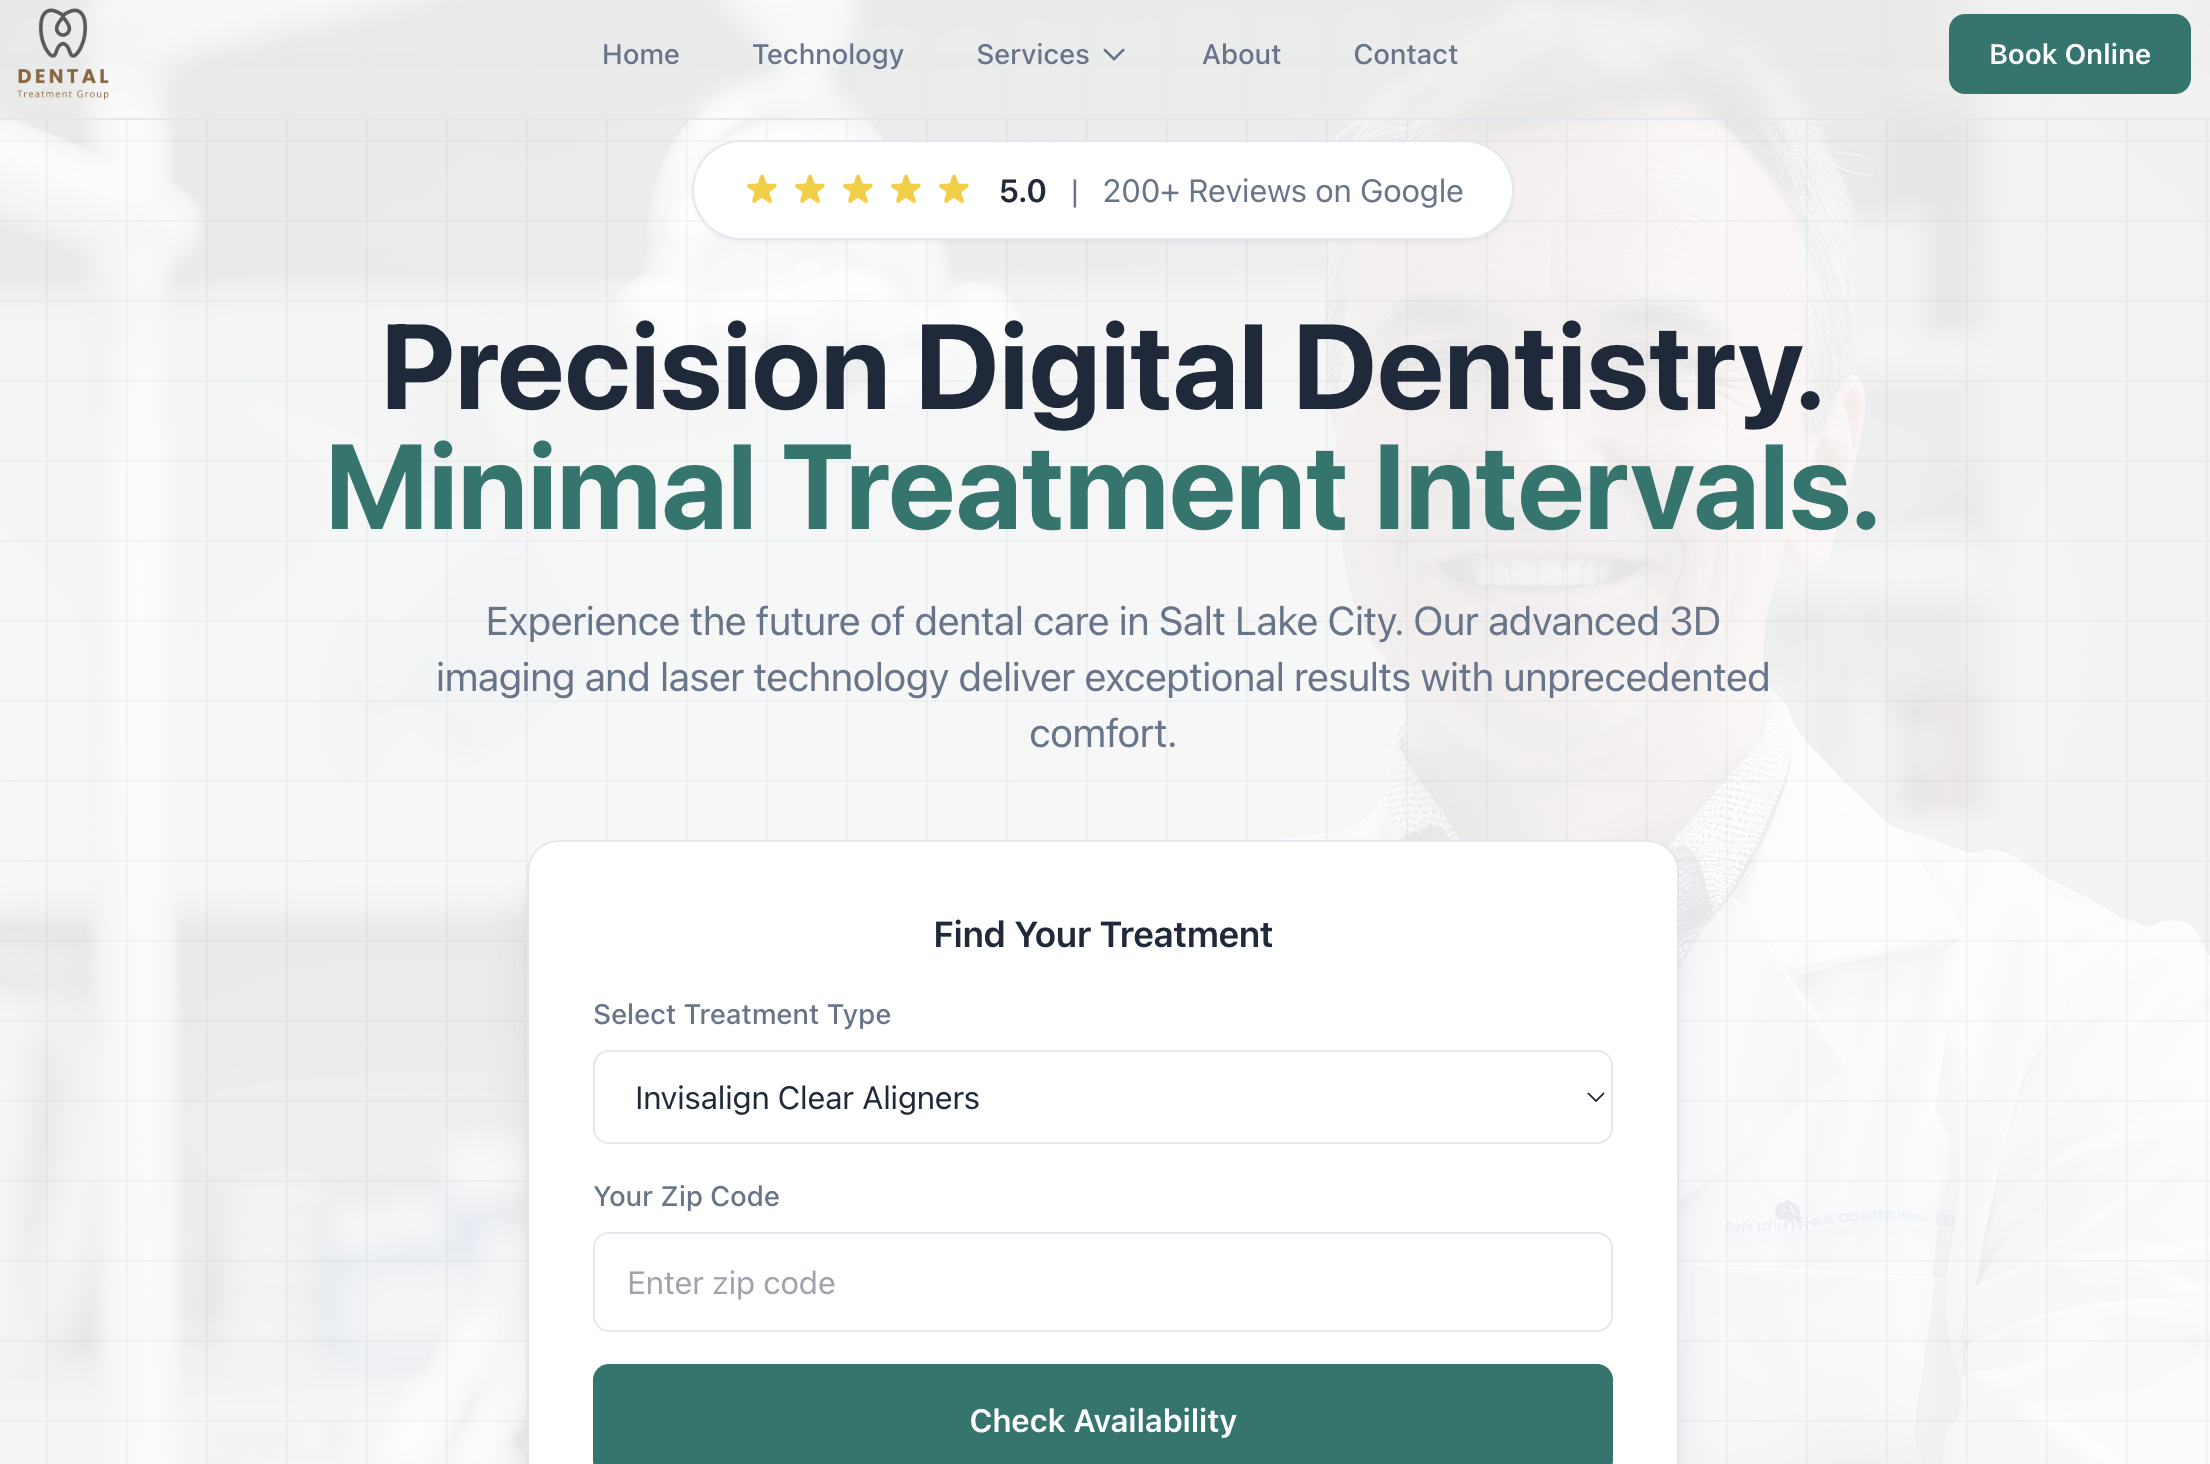
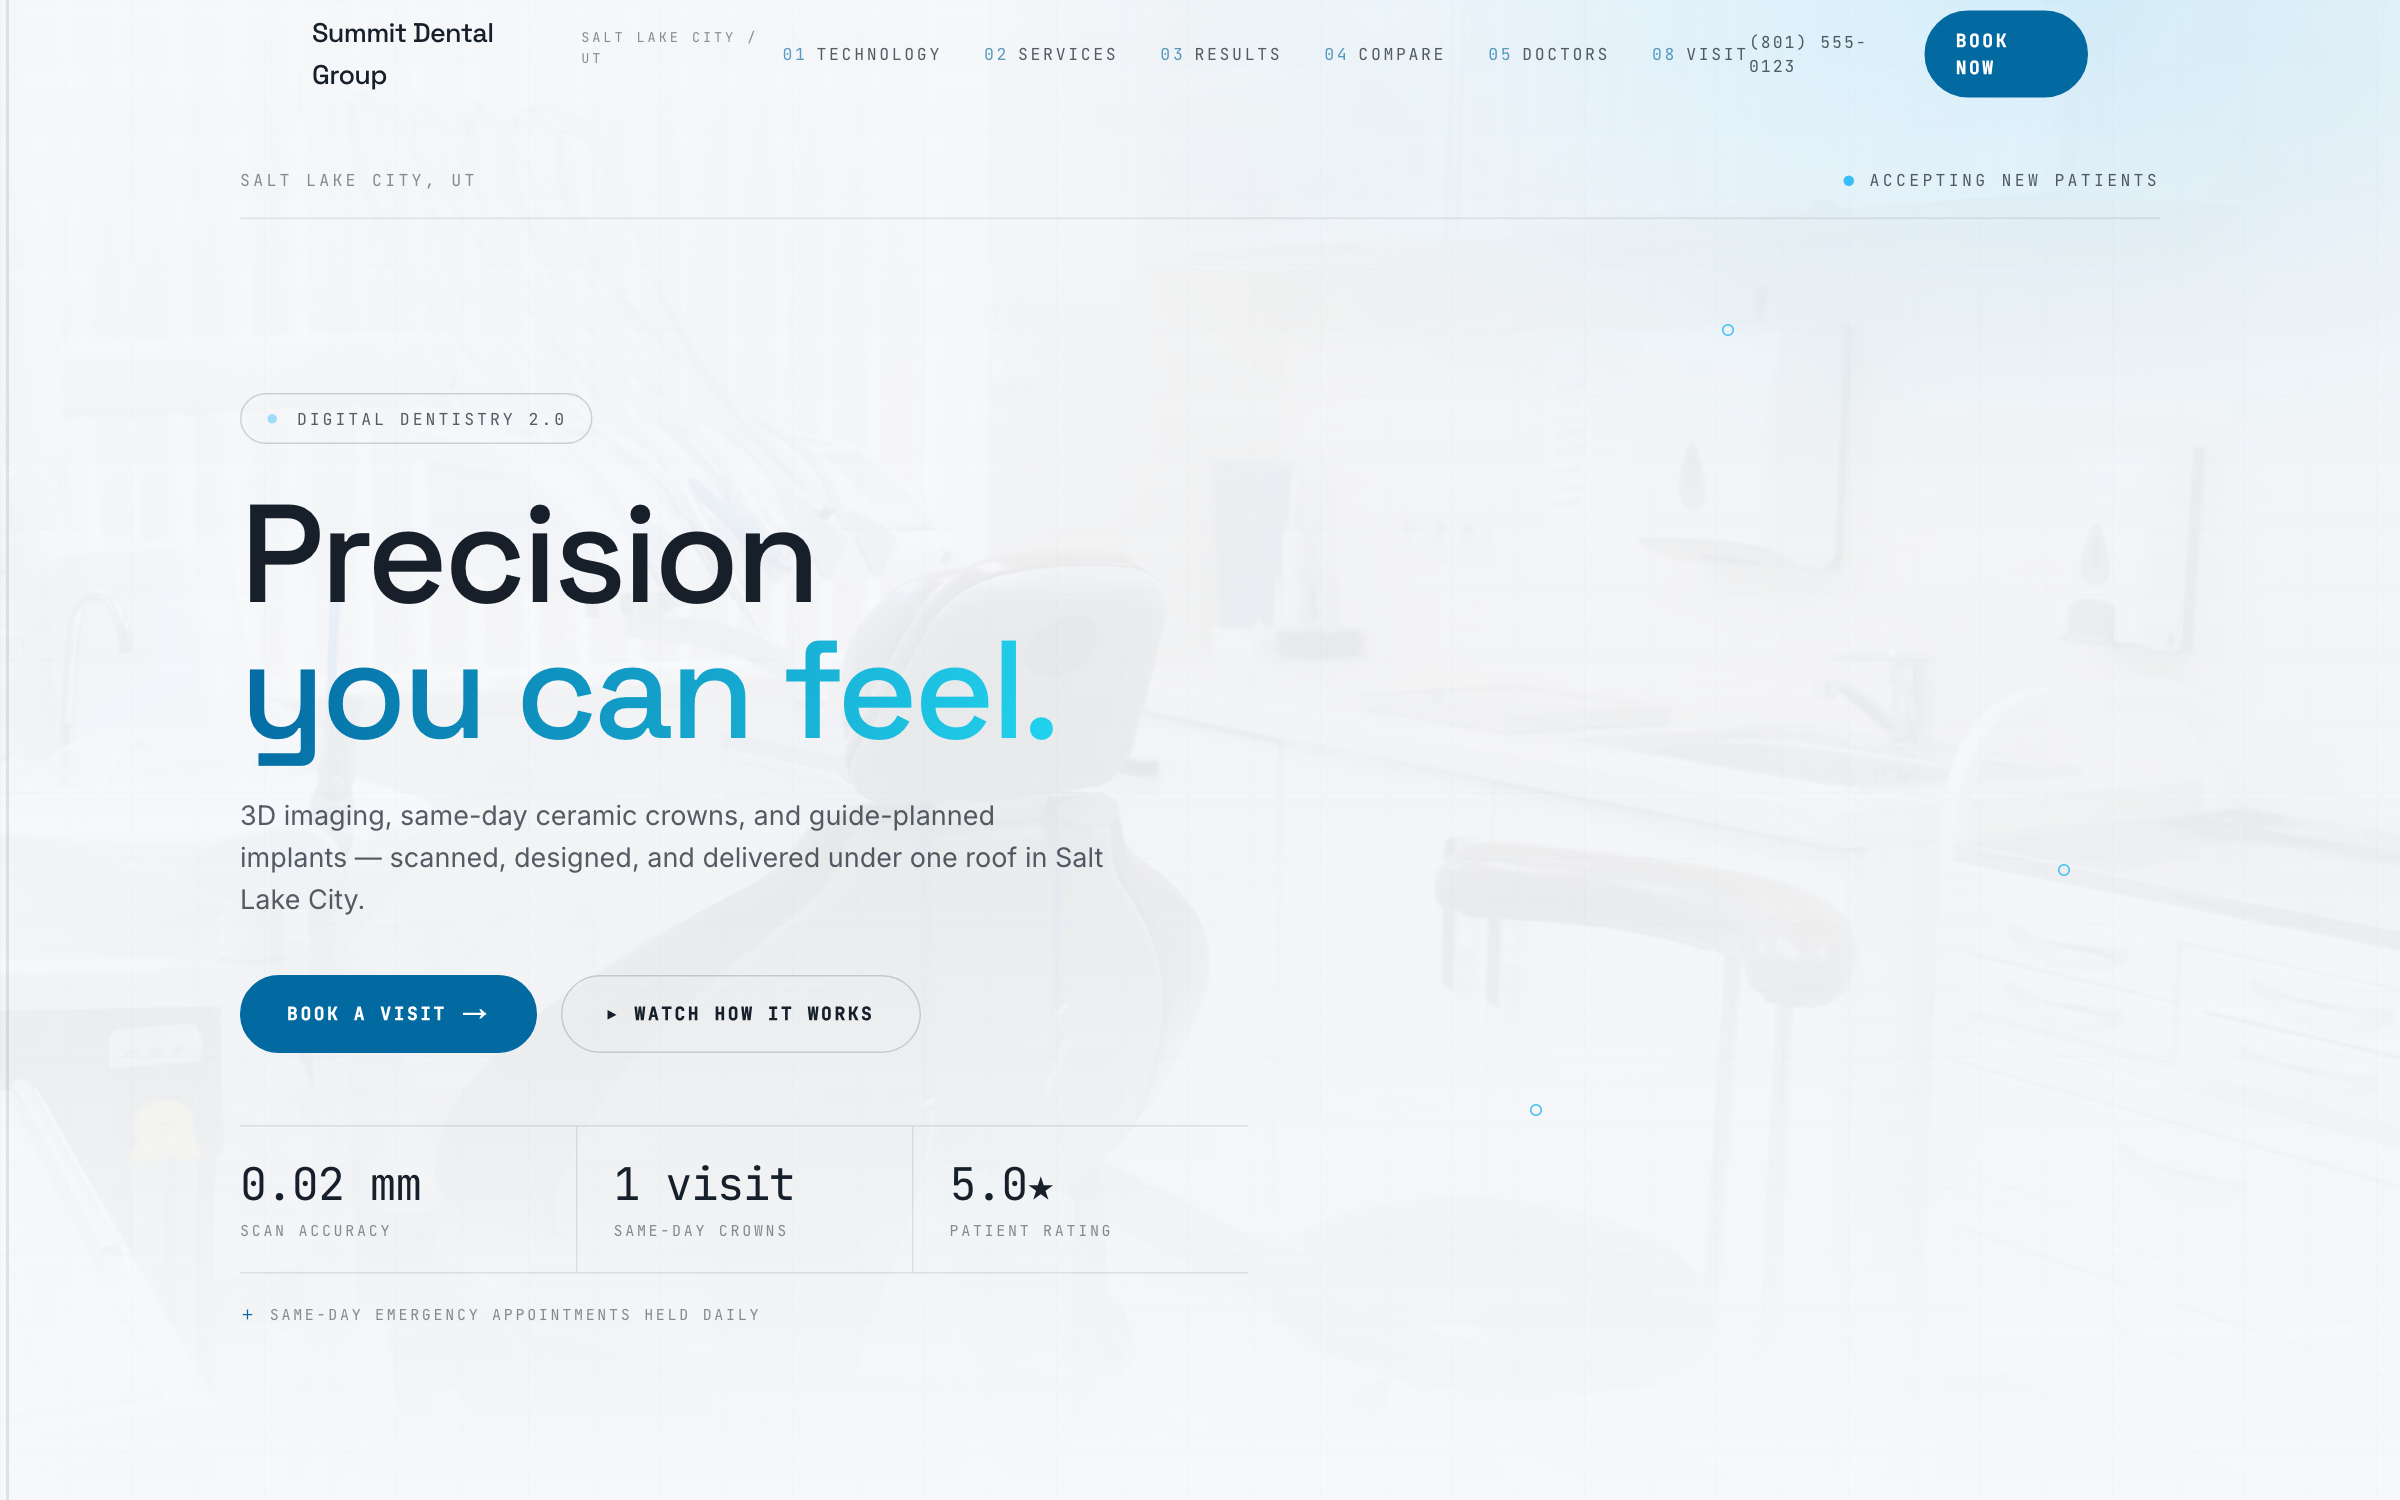
updates

diff --git a/app/(templates)/t2/components/T2Hero.tsx b/app/(templates)/t2/components/T2Hero.tsx
@@ -1,6 +1,6 @@
 "use client";
 
-import { useEffect, useRef } from "react";
+import { useEffect, useRef, useState } from "react";
 import {
   animate,
   motion,
@@ -70,6 +70,9 @@ export default function T2Hero() {
   const sectionRef = useRef<HTMLElement>(null);
   const hudDotsRef = useRef<(HTMLSpanElement | null)[]>([]);
   const reduced = useReducedMotion();
+  // The headline reveal masks each line with overflow-hidden while it slides
+  // up; once settled we drop the clip so tight leading can't cut descenders.
+  const [titleRevealed, setTitleRevealed] = useState(false);
 
   // Scroll-linked parallax on the video plate
   const { scrollYProgress } = useScroll({
@@ -276,13 +279,23 @@ export default function T2Hero() {
           </motion.p>
 
           <h1 className="font-innovator mt-7 font-medium tracking-[-0.03em] leading-[0.98] text-[clamp(2.6rem,1.4rem+5.8vw,5.8rem)] max-w-5xl">
-            {["Precision", "you can feel."].map((line, i) => (
-              <span key={line} className="block overflow-hidden">
+            {["Precision", "you can feel."].map((line, i, lines) => (
+              <span
+                key={line}
+                className={`block ${
+                  !reduced && !titleRevealed ? "overflow-hidden" : ""
+                }`}
+              >
                 <motion.span
                   className="block"
                   initial={reduced ? false : { y: "110%" }}
                   animate={{ y: 0 }}
                   transition={{ duration: 0.7, delay: 0.25 + i * 0.12, ease: EASE }}
+                  onAnimationComplete={
+                    i === lines.length - 1
+                      ? () => setTitleRevealed(true)
+                      : undefined
+                  }
                 >
                   {i === 1 ? <span className="t2p-duotext">{line}</span> : line}
                 </motion.span>
